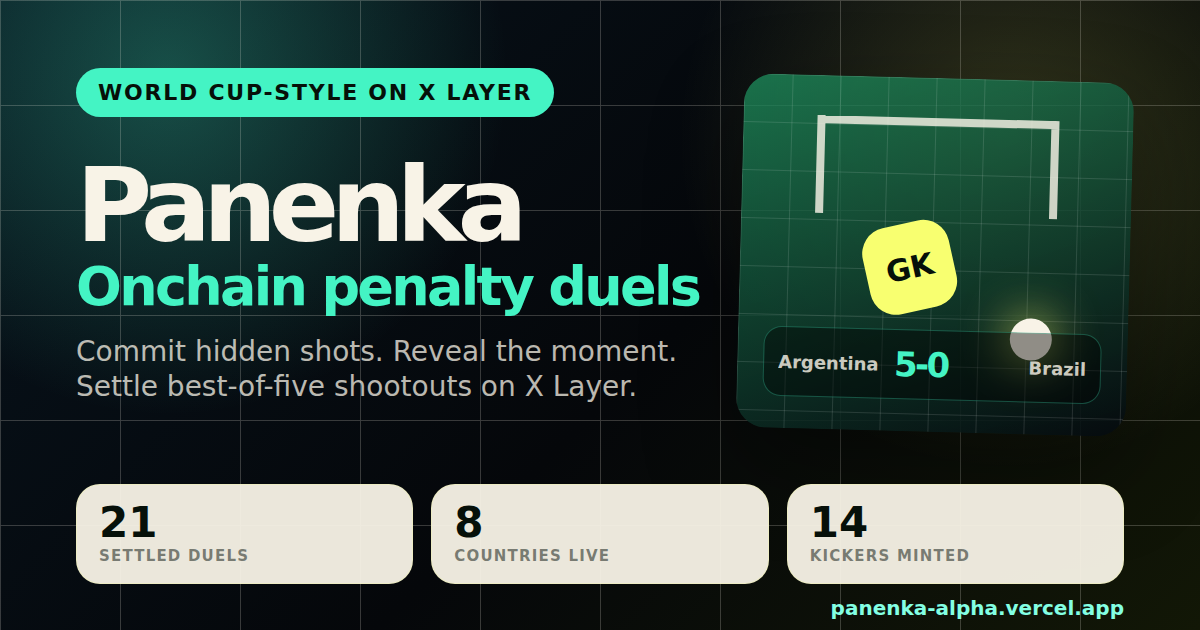
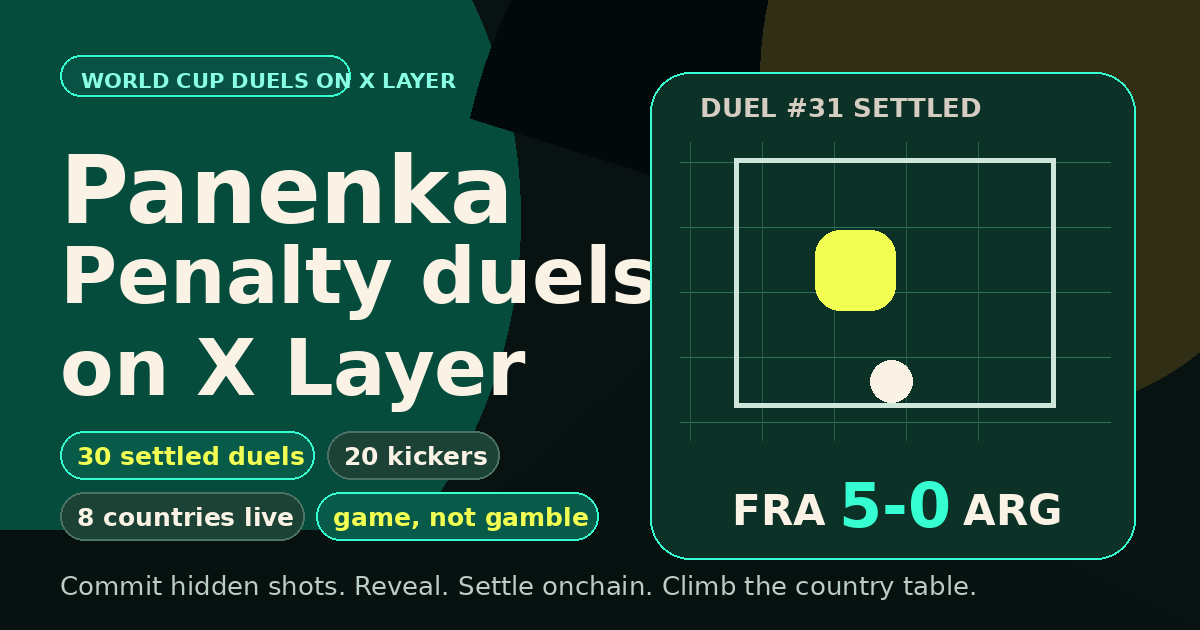
refresh Panenka social preview

diff --git a/app/index.html b/app/index.html
@@ -15,7 +15,7 @@
     <meta property="og:title" content="Panenka · Onchain penalty duels" />
     <meta
       property="og:description"
-      content="21 settled X Layer duels, 8 countries live. Commit hidden shots, reveal, and settle best-of-five shootouts onchain."
+      content="30 settled X Layer duels, 20 country kickers, 8 countries live. Commit hidden shots, reveal, and settle best-of-five shootouts onchain."
     />
     <meta property="og:image" content="https://panenka-alpha.vercel.app/panenka-card.png" />
     <meta property="og:image:width" content="1200" />
@@ -28,7 +28,7 @@
     <meta name="twitter:title" content="Panenka · Onchain penalty duels" />
     <meta
       name="twitter:description"
-      content="21 settled X Layer duels, 8 countries live. Commit hidden shots, reveal, and settle best-of-five shootouts onchain."
+      content="30 settled X Layer duels, 20 country kickers, 8 countries live. Commit hidden shots, reveal, and settle best-of-five shootouts onchain."
     />
     <meta name="twitter:image" content="https://panenka-alpha.vercel.app/panenka-card.png" />
     <meta name="twitter:image:alt" content="Panenka onchain penalty duels on X Layer" />